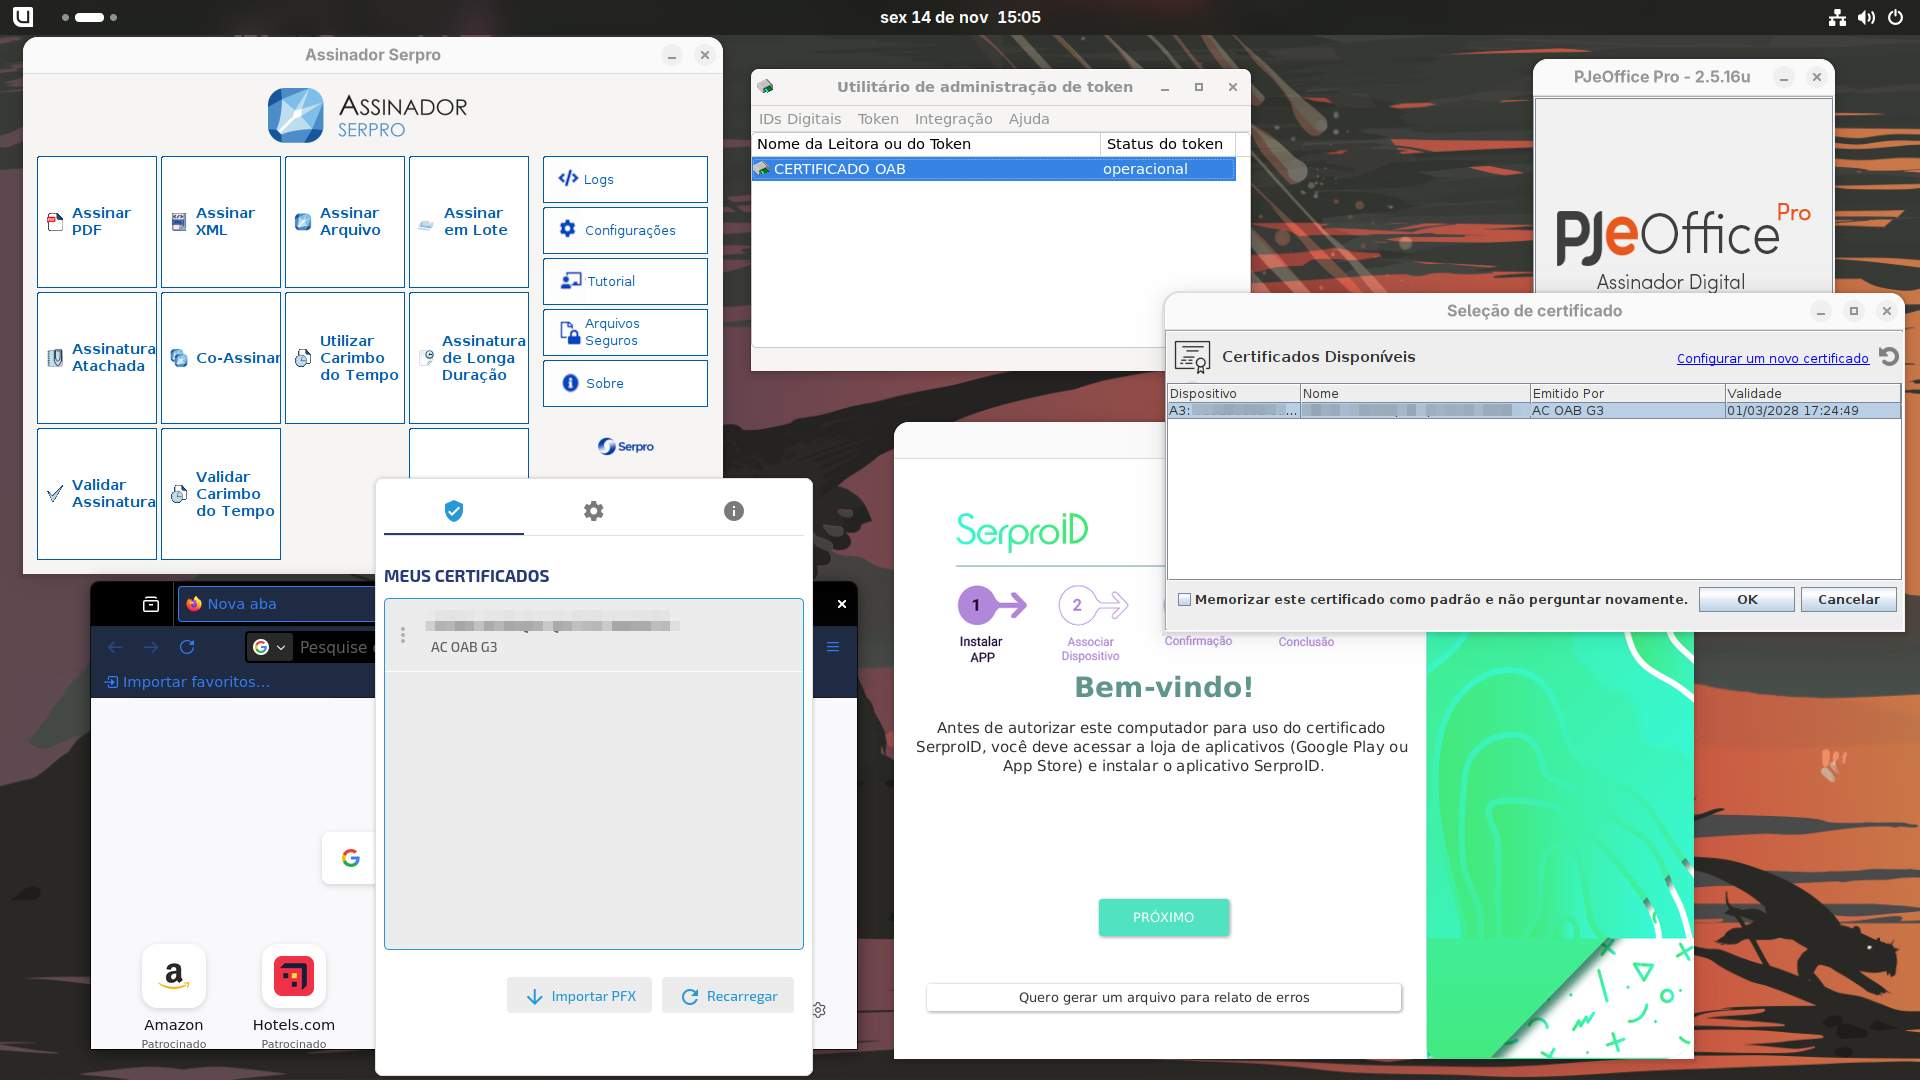
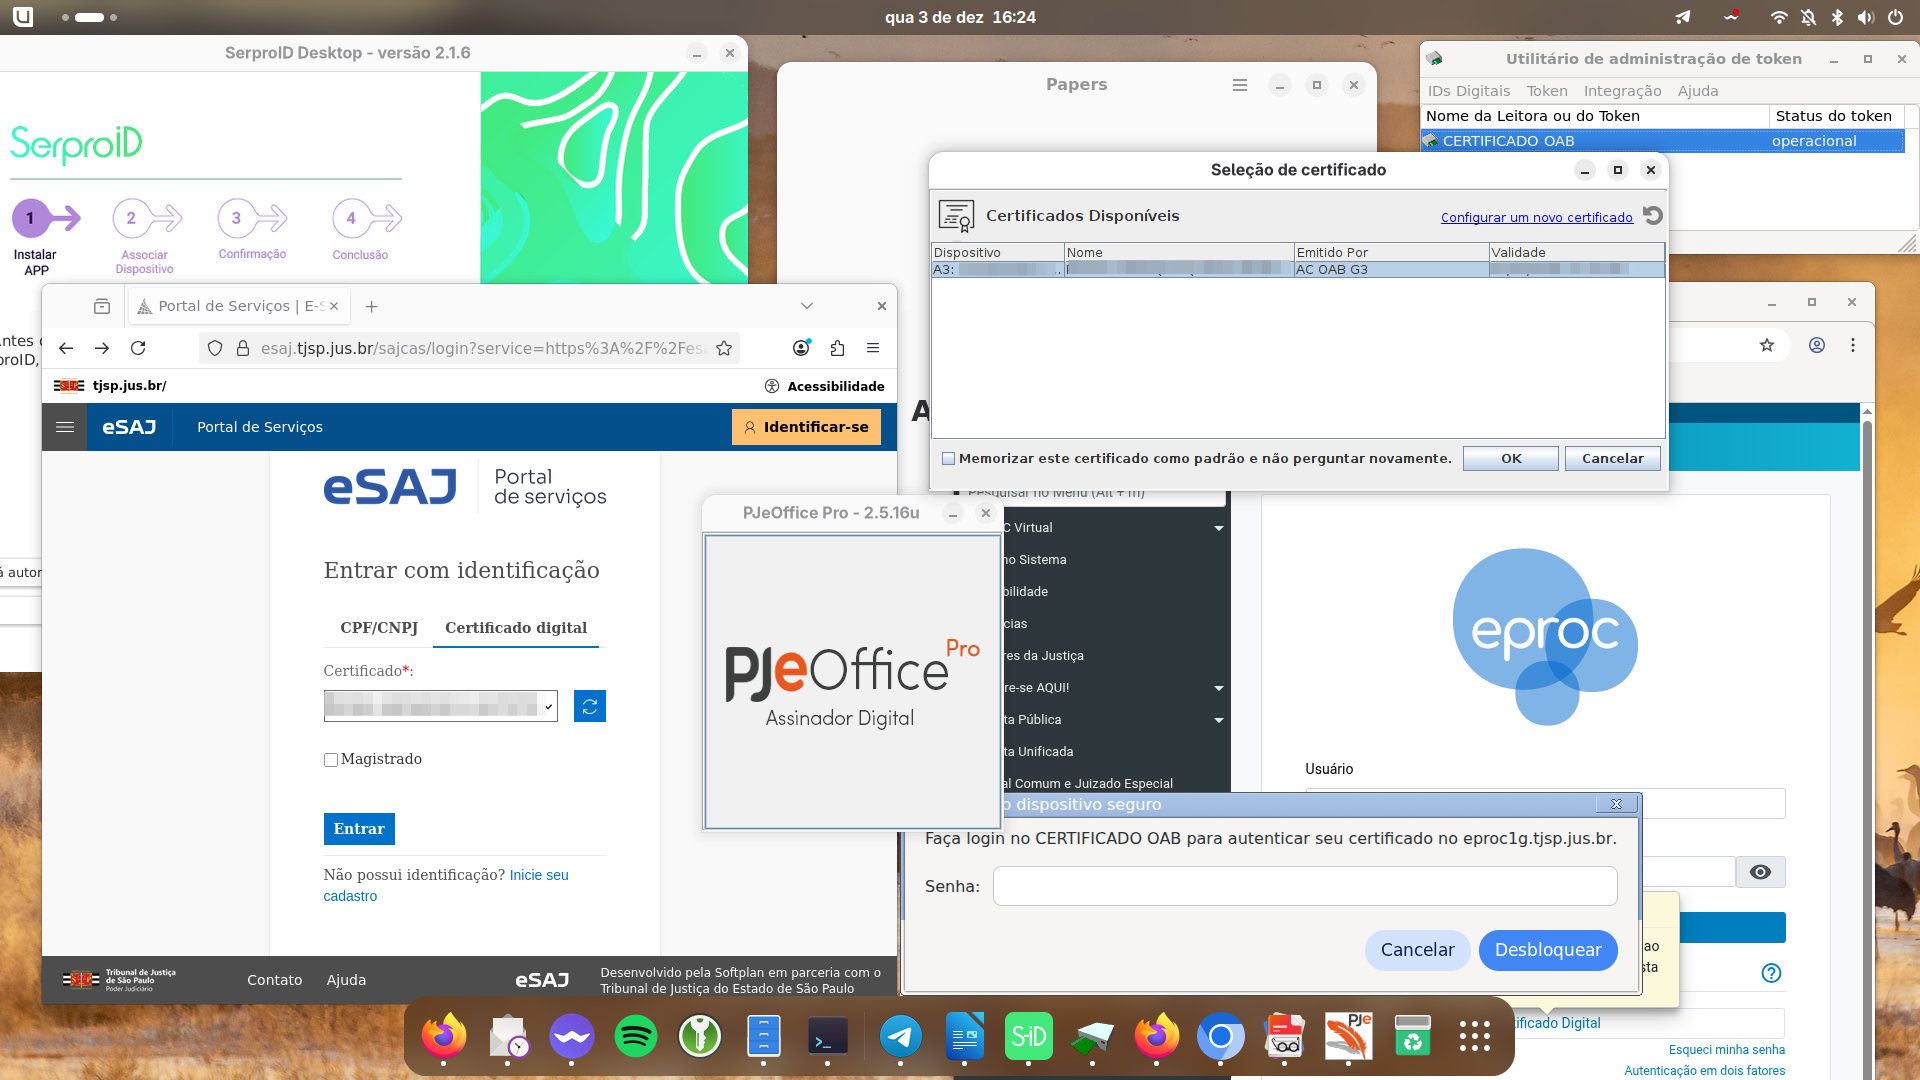
Remove o Assinador Serpro e adiciona o Papers como leitor de PDF
Atualiza o README e a captura de tela.

diff --git a/README.md b/README.md
@@ -1,8 +1,8 @@
 # Distrobox-adv-br
 
-Trata-se de arquivo assemble para criar contêiner via distrobox com pacotes que fornecem ambiente para uso de certificado digital por advogados no Brasil em quase qualquer distribuição de Linux recente. 
+Trata-se de arquivo assemble para criar contêiner via distrobox com pacotes que fornecem ambiente para uso de certificado digital por advogados no Brasil em distribuições populares e recentes de Linux. 
 
-**OBS**: O suporte a Ubuntu 24.04 LTS e distribuições derivadas - tais como o Linux Mint (versão Ubuntu), ZorinOS ou Pop!_OS -, foi removido em razão das limitações no empacotamento do Firefox e Chromium, que levavam a criação do contêiner a falhar. O suporte a Ubuntu LTS e distribuições derivadas deve voltar assim que Ubuntu 26.04 LTS for lançado. Até lá, a recomendação é instalar os pacotes diretamente no sistema.
+**OBS**: A distribuições suportadas são Debian, Linux Mint Debian Edition (LMDE), MX Linux, Fedora, Bluefin, Aurora, Arch Linux, Manjaro, BigLinux, EndeavourOS, CachyOS e openSUSE Tumbleweed. **Não há suporte a Ubuntu nem a distribuições derivadas (p.e., Zorin OS, Pop!_OS, Linux Mint, etc.)**, seja por conta da dificuldade de lidar com snaps, seja por conta dos pacotes desatualizados que afetam o funcionamento do contêiner.
 
 Estão incluídos:
 
@@ -14,7 +14,7 @@ Estão incluídos:
   
 4) PJeOffice Pro, utilizado para assinatura eletrônica de documentos do sistema PJe, fornecido pelo Conselho Nacional de Justiça - CNJ;
    
-5) Assinador Serpro, utilizado para assinar documentos com certificado digital ou validar documentos já assinados;
+5) Papers, utilizado para assinar documentos com certificado digital ou validar documentos já assinados;
    
 6) Lacuna Webpki e Softplan Websigner, utilizado para assinatura eletrônica de documento em sistemas SAJ, fornecido pela Softplan;
    
@@ -32,31 +32,31 @@ Estão incluídos:
 
 1. Primeiramente, é necessário instalar o distrobox e podman em sua distribuição, além dos pacotes pcsc-lite e ccid - caso já não os tenha -, necessários para que seu sistema possa acessar o token.
 
-Debian (13 ou superior), Ubuntu (25.10 ou superior), Linux Mint Debian Edition (7 ou superior) e MX Linux (25 ou superior):
+Debian, Linux Mint Debian Edition e MX Linux:
 
 ```bash
 sudo apt install pcscd libccid distrobox podman
 ```
 
-Fedora Workstation e KDE Plasma:
+Fedora:
 
 ```bash
 sudo dnf install distrobox podman
 ```
 
-Arch Linux:
+Arch Linux, Manjaro, BigLinux, EndeavourOS e CachyOS:
   
 ```bash
-pacman -S distrobox podman pcsclite ccid
+sudo pacman -S distrobox podman pcsclite ccid
 ```
 
 openSUSE Tumbleweed:
+
 ```bash
 sudo zypper in distrobox podman pcsc-ccid
 ```
 
 **OBS:** Distribuições como Bluefin e Aurora já vêm com distrobox pré-instalado no sistema.
-
 
 2. Habilitar o pcsc-lite no sistema caso já não esteja:
    
@@ -84,27 +84,12 @@ Os token SafeNet e Safesign já estão habilitados no Firefox; o certificado na 
 
 Para configurar o certificado SerproID no plugin do Lacuna Webpki, Softplan Websigner e Certisign WebSigner, deve-se aplicar as orientações a seguir:
 
-1) Abrir o plugin no Firefox;
+1) Abrir o plugin no Firefox ou Chrome;
    
 2) Acessar a aba "Cripto Dispositivos";
    
 3) Em "Opções personalizadas", no campo "Nome do arquivo SO (com extensão), adicionar "/lib/libneoidp11.so" (sem aspas) e apertar o sinal de "+".
 
----
-
-## Configuração Assinador Serpro
-
-Para configurar o Assinador Serpro, deve-se aplicar as orientações a seguir:
-
-1) Acessar a opção "Configurações" no aplicativo;
-   
-2) Acessar a aba "Carregar Driver";
-   
-3) Selecionar "Carregar driver local" e clicar em "Selecionar arquivo (.so ou .dll);
-  
-4) Abrir o arquivo /lib/libneoidp11.so, se for utilizar o certificado do SerproID; o arquivo /lib/libaetpkss.so, se for utilizar token SafeSign; ou o /lib/libeToken.so, se for utilizar token Safenet.
-
-5) Pressionar "Salvar".
    
 ---
 
@@ -119,16 +104,6 @@ distrobox rm distrobox-adv-br
 ```bash
 rm -rf ~/.distrobox-adv-br
 ```
-
----
-
-## Limitações
-
-Existem algumas limitações decorrentes do próprio uso de contêineres. As conhecidas encontram-se a seguir:
-   
-1) Assinador Serpro indica que não há conexão por internet. Trata-se de falso positivo, uma vez que a integração com outros sistemas funciona normalmente.
-
-Nenhuma das limitações traz repercussões negativas ao uso das ferramentas.
 
 ---
 
